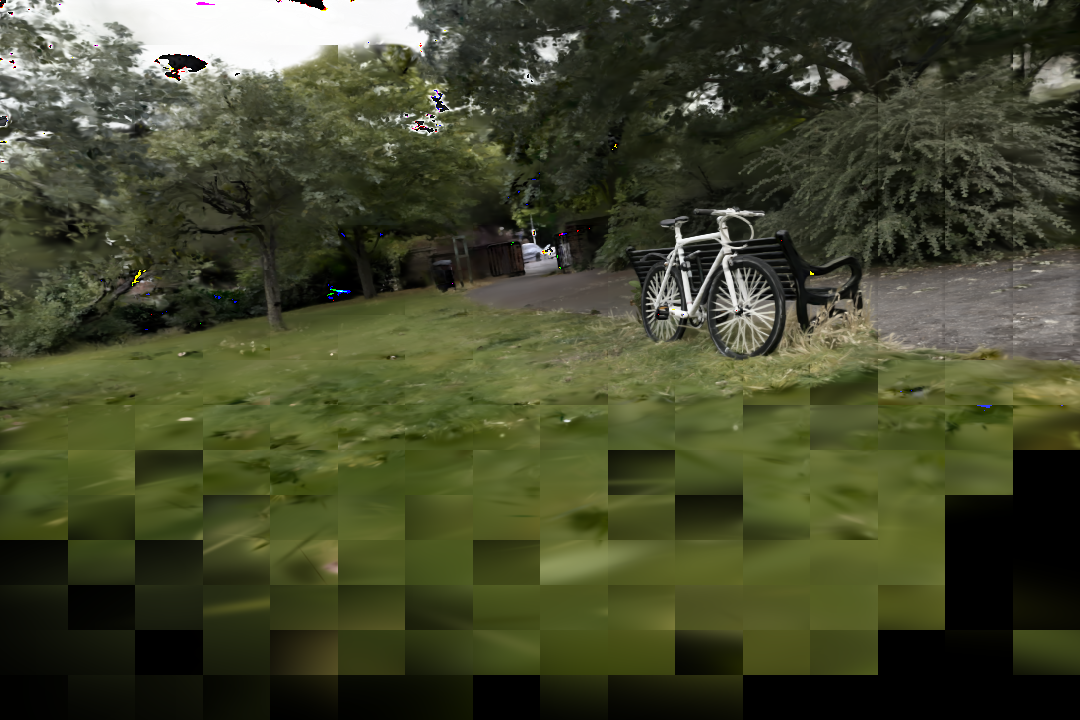
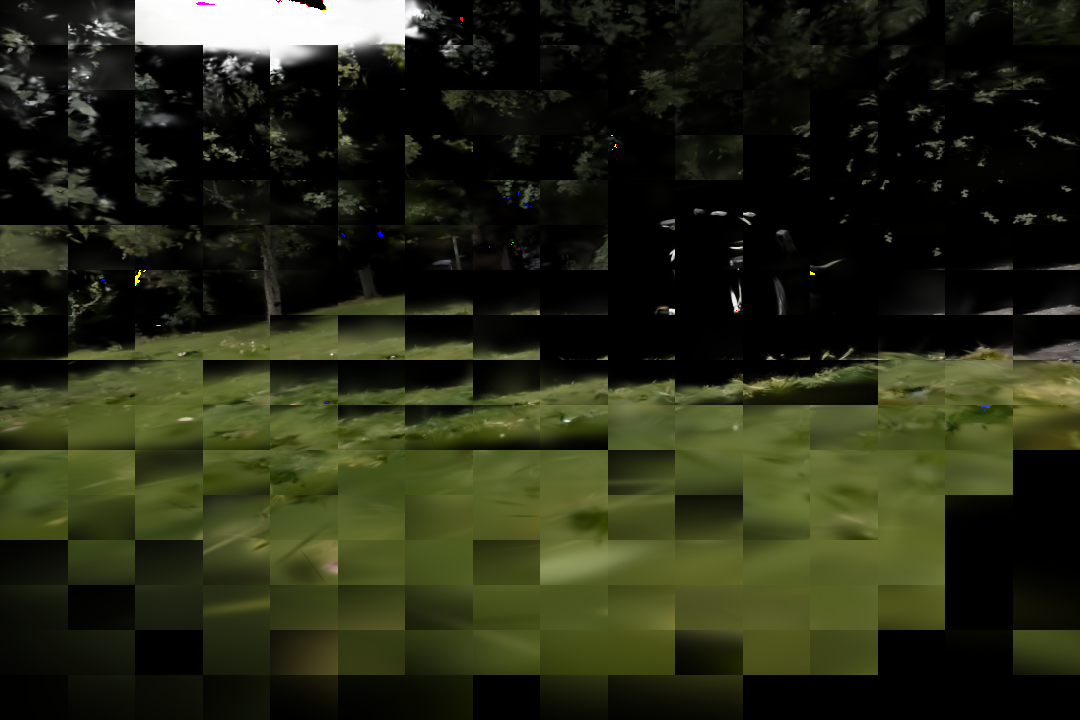
unoptimised gpu drawinggit add .git add . :DDDDD

diff --git a/src/Splats.cpp b/src/Splats.cpp
@@ -84,7 +84,7 @@ void Splats::loadToGPU()
     glBindBuffer(GL_SHADER_STORAGE_BUFFER, means3DBuffer);
     glBufferData(GL_SHADER_STORAGE_BUFFER, means3D.size() * sizeof(glm::vec4), means3D.data(), GL_STATIC_DRAW);
     glBindBuffer(GL_SHADER_STORAGE_BUFFER, coloursBuffer);
-    glBufferData(GL_SHADER_STORAGE_BUFFER, colours.size() * sizeof(glm::vec3), colours.data(), GL_STATIC_DRAW);
+    glBufferData(GL_SHADER_STORAGE_BUFFER, colours.size() * sizeof(glm::vec4), colours.data(), GL_STATIC_DRAW);
     glBindBuffer(GL_SHADER_STORAGE_BUFFER, sphericalHarmonicsBuffer);
     glBufferData(GL_SHADER_STORAGE_BUFFER, sphericalHarmonics.size() * sizeof(float), sphericalHarmonics.data(),
                  GL_STATIC_DRAW);
@@ -311,7 +311,7 @@ void Splats::loadSplats(const std::string &filePath)
             colour[i] = (0.5 + (SH_C0 * colour[i])) * 255.f;
             //colour[i] = exp(colour[i]);
         }
-        glm::vec3 colourVec(colour[0], colour[1], colour[2]);
+        glm::vec4 colourVec(colour[0], colour[1], colour[2], 1.f);
         colours.push_back(colourVec);
         //read the spherical harmonics (44 floats)
         float sphericalHarmonic[45];
@@ -512,7 +512,7 @@ void Splats::sort()
 
 }
 
-void Splats::draw(int width, int height)
+void Splats::draw(int width, int height, float tileWidth, float tileHeight)
 {
     //the draw function needs to following inputs:
     //the start and end of each bin for each tile (this can be found at the end of the histogram buffer and the numSplatsPostCull)
@@ -541,12 +541,16 @@ void Splats::draw(int width, int height)
     glBindBufferBase(GL_SHADER_STORAGE_BUFFER, 2, projectedCovarianceBuffer);
     glBindBufferBase(GL_SHADER_STORAGE_BUFFER, 3, coloursBuffer);
     glBindBufferBase(GL_SHADER_STORAGE_BUFFER, 4, indexBuffer);
+    glBindBufferBase(GL_SHADER_STORAGE_BUFFER, 5, splatKeysBuffer);
+    glBindBufferBase(GL_SHADER_STORAGE_BUFFER, 6, boundingRadiiBuffer);
     //bind the output screen sized buffer (a image2D)
     glBindImageTexture(0, texture, 0, GL_FALSE, 0, GL_WRITE_ONLY, GL_RGBA8);
     //set the uniforms
     glUniform1i(glGetUniformLocation(drawProgram, "numSplats"), numSplatsPostCull);
     glUniform1i(glGetUniformLocation(drawProgram, "screenWidth"), width);
     glUniform1i(glGetUniformLocation(drawProgram, "screenHeight"), height);
+    glUniform1f(glGetUniformLocation(drawProgram, "tileWidth"), tileWidth);
+    glUniform1f(glGetUniformLocation(drawProgram, "tileHeight"), tileHeight);
 
     //render the splats
     glDispatchCompute(width / 16, height / 16, 1);
@@ -888,7 +892,7 @@ Splats::cpuRender(glm::mat4 viewMatrix, int width, int height, float focal_x, fl
     double timer = glfwGetTime();
     float tileWidth = width / 16.f;
     float tileHeight = height / 16.f;
-//#define GPUPREPROCESS
+#define GPUPREPROCESS
 #ifndef GPUPREPROCESS
     numDuplicates = 0;
     // for each splat, project the mean
@@ -1034,7 +1038,15 @@ Splats::cpuRender(glm::mat4 viewMatrix, int width, int height, float focal_x, fl
     computeBins();
     std::cout << "Time taken to preprocess and bin: " << glfwGetTime() - timer << std::endl;
     sort();
+    glFinish();
+    timer = glfwGetTime();
     std::cout << "Time taken to preprocess, bin and sort: " << glfwGetTime() - timer << std::endl;
+    draw(width, height, tileWidth, tileHeight);
+    glFinish();
+    std::cout << "Time taken to preprocess, bin, sort and draw: " << glfwGetTime() - timer << std::endl;
+
+//#define CPUDRAW
+#ifdef CPUDRAW
     // get the buffers from the GPU into the vectors
     glBindBuffer(GL_SHADER_STORAGE_BUFFER, projectedMeansBuffer);
     float *projectedMeansptr = (float *) glMapBuffer(GL_SHADER_STORAGE_BUFFER, GL_READ_ONLY);
@@ -1130,7 +1142,13 @@ Splats::cpuRender(glm::mat4 viewMatrix, int width, int height, float focal_x, fl
 //    std::sort(indices.begin(), indices.begin() + numSplats + numDuplicates, [&depthVector](int i1, int i2)
 //    { return depthVector[i1] < depthVector[i2]; });
 //    std::cout << "Time taken to sort: " << glfwGetTime() - timer << std::endl;
-
+    //print the maximum bin size
+    int maxBin = 0;
+    for (int i = 1; i < 256; i++)
+    {
+        maxBin = fmax(maxBin, bins[i] - bins[i - 1]);
+    }
+    std::cout << "Max bin size: " << maxBin << std::endl;
     //tiled per pixel rasterisation
     timer = glfwGetTime();
     for(int y=0; y<height; y++)
@@ -1145,6 +1163,7 @@ Splats::cpuRender(glm::mat4 viewMatrix, int width, int height, float focal_x, fl
             int tileIndex = tileY * 16 + tileX;
             int start = (tileIndex == 0) ? 0 : bins[tileIndex - 1];
             int end = bins[tileIndex];
+            end = fmin(end, start + 1000);
             for(int i=start; i<end; i++)
             {
                 int index = splatKeys[indices[i]];
@@ -1163,8 +1182,7 @@ Splats::cpuRender(glm::mat4 viewMatrix, int width, int height, float focal_x, fl
 
                     glm::vec4 conic = projectedCovariances[index];
                     //get the position of the mean in screen space
-                    glm::vec2 meanPosition = glm::vec2(projectedMean[0], projectedMean[1]);
-                    glm::vec2 distance = glm::vec2(x, y) - meanPosition;
+                    glm::vec2 distance = pixelPosition - projectedMean;
                     //get the value of the conic at the distance
                     float power = -0.5f * (conic.x * distance.x * distance.x + conic.z * distance.y * distance.y) -
                                   conic.y * distance.x * distance.y;
@@ -1185,8 +1203,8 @@ Splats::cpuRender(glm::mat4 viewMatrix, int width, int height, float focal_x, fl
                     //alpha = 1;
                     //add the value to the pixel
                     //only add if number of splats per pixel is less than 10
-
-                    pixel = alphaBlend(pixel, glm::vec4(colours[index], alpha));
+                    glm::vec3 colour3 = glm::vec3 (colours[index]);
+                    pixel = alphaBlend(pixel, glm::vec4(colour3, alpha));
                     //if the alpha is high enough, we are done with this pixel
                     if (pixel.a > 0.99f)
                     {
@@ -1306,6 +1324,7 @@ Splats::cpuRender(glm::mat4 viewMatrix, int width, int height, float focal_x, fl
     std::cout << "Time taken to render: " << glfwGetTime() - timer << std::endl;
     //store the image in a png
     saveImage(image, "cpuRender.png");
+#endif
     std::cout << "Finished rendering on the cpu" << std::endl;
     //print the mean, median and max number of splats per pixel
 //    int total = 0;

diff --git a/include/Splats.h b/include/Splats.h
@@ -55,7 +55,7 @@ class Splats
         void computeBins();
 
         //function to draw the splats
-        void draw(int width, int height);
+        void draw(int width, int height, float tileWidth, float tileHeight);
 
         //function to display the splats
         void display();
@@ -64,7 +64,7 @@ class Splats
         int numDuplicates;
         int numSplatsPostCull;
         std::vector<glm::vec4> means3D;
-        std::vector<glm::vec3> colours;
+        std::vector<glm::vec4> colours;
         std::vector<float> sphericalHarmonics;
         std::vector<float> opacities;
         std::vector<glm::vec3> scales;
